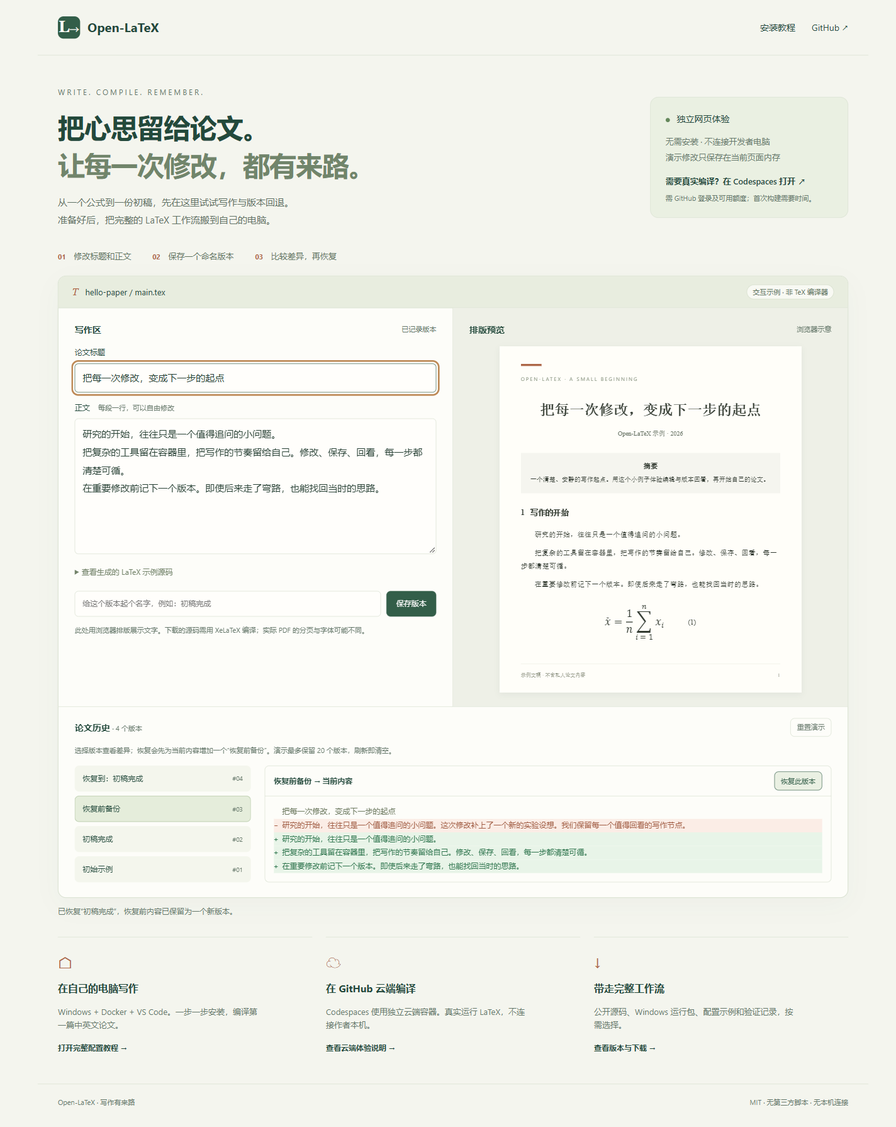
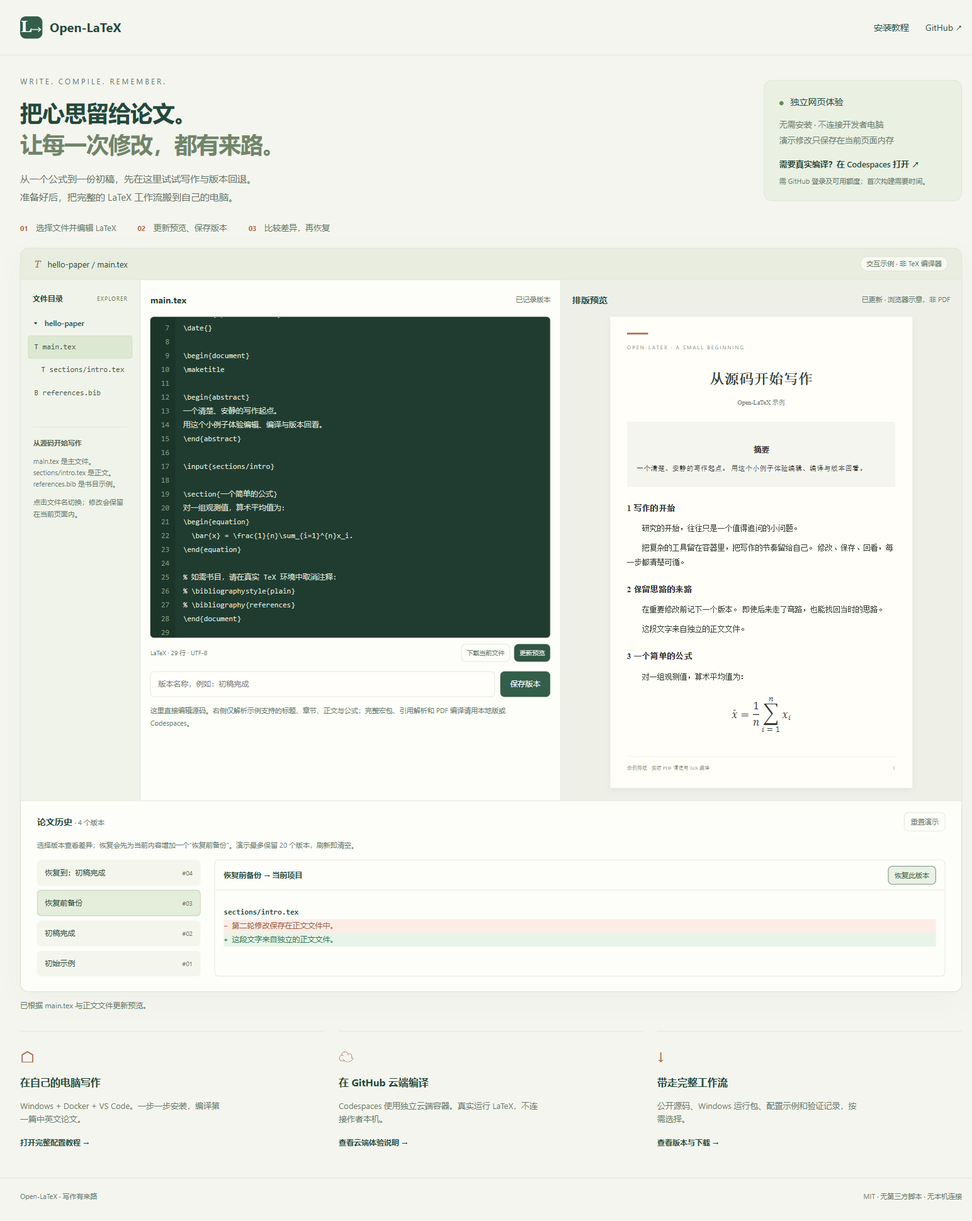
Add three-pane LaTeX demo and verified setup documentation

diff --git a/code/web/app.js b/code/web/app.js
@@ -1,81 +1,142 @@
 'use strict';
 (() => {
   const $ = id => document.getElementById(id);
-  const title = $('paper-title'), body = $('paper-body');
-  const initial = {title: title.value, body: body.value};
-  let nextId = 1, versions = [], selectedId;
-  const notice = message => { $('notification').textContent = message; };
-  const content = () => ({title: title.value, body: body.value});
-  const same = (a, b) => a.title === b.title && a.body === b.body;
-  const escapeTex = value => value.replace(/[\\{}%$&#_^~]/g, c => ({'\\':'\\textbackslash{}','{':'\\{','}':'\\}','%':'\\%','$':'\\$','&':'\\&','#':'\\#','_':'\\_','^':'\\textasciicircum{}','~':'\\textasciitilde{}'}[c]));
-  function source() {
-    return '\\documentclass[UTF8]{ctexart}\n\\usepackage{amsmath}\n\\title{' + escapeTex(title.value || '未命名文稿') + '}\n\\author{Open-LaTeX Demo}\n\\date{}\n\\begin{document}\n\\maketitle\n\\section{写作的开始}\n' + body.value.split('\n').map(escapeTex).join('\n\n') + '\n\\[ \\bar{x}=\\frac{1}{n}\\sum_{i=1}^{n}x_i \\]\n\\end{document}\n';
+  const original = {
+    'main.tex': String.raw`% !TeX program = xelatex
+\documentclass[UTF8,a4paper,11pt]{ctexart}
+\usepackage[margin=25mm]{geometry}
+\usepackage{amsmath}
+\title{从第一行开始}
+\author{Open-LaTeX 示例}
+\date{}
+
+\begin{document}
+\maketitle
+
+\begin{abstract}
+一个清楚、安静的写作起点。
+用这个小例子体验编辑、编译与版本回看。
+\end{abstract}
+
+\input{sections/intro}
+
+\section{一个简单的公式}
+对一组观测值，算术平均值为：
+\begin{equation}
+  \bar{x} = \frac{1}{n}\sum_{i=1}^{n}x_i.
+\end{equation}
+
+% 如需书目，请在真实 TeX 环境中取消注释：
+% \bibliographystyle{plain}
+% \bibliography{references}
+\end{document}
+`,
+    'sections/intro.tex': String.raw`\section{写作的开始}
+研究的开始，往往只是一个值得追问的小问题。
+
+把复杂的工具留在容器里，把写作的节奏留给自己。
+修改、保存、回看，每一步都清楚可循。
+
+\section{保留思路的来路}
+在重要修改前记下一个版本。
+即使后来走了弯路，也能找回当时的思路。
+`,
+    'references.bib': String.raw`% 原创演示书目，仅用于展示 .bib 文件结构。
+% 不是实际发表的论文，请勿用于正式引用。
+@misc{openlatexDemo,
+  author = {{Open-LaTeX contributors}},
+  title  = {Open-LaTeX 示例文稿},
+  year   = {2026},
+  note   = {Fictional example; do not cite}
+}
+`
+  };
+  let files = {...original}, active = 'main.tex', versions = [], nextId = 1, selectedId;
+  const editor = $('source-editor');
+  const notice = message => {$('notification').textContent = message;};
+  const equal = (a,b) => Object.keys(original).every(name => a[name] === b[name]);
+  const commitEdit = () => {files[active] = editor.value;};
+  const stripComments = text => text.split('\n').map(line => line.replace(/(?<!\\)%.*/, '')).join('\n');
+  const plain = text => text.replace(/\\(?:textbf|textit|emph|texttt)\{([^{}]*)\}/g,'$1').replace(/\\([%&#_$])/g,'$1').replace(/\$([^$]*)\$/g,'$1').replace(/\\(?:LaTeX|TeX)\b/g,'LaTeX');
+  function braces(text, command) {
+    const at=text.indexOf('\\'+command+'{'); if(at<0)return '';
+    const start=at+command.length+2;let depth=1;
+    for(let i=start;i<text.length;i++){if(text[i]==='{'&&text[i-1]!=='\\')depth++;if(text[i]==='}'&&text[i-1]!=='\\')depth--;if(!depth)return text.slice(start,i);}
+    return '';
   }
-  function addVersion(label, snapshot = content()) {
-    const version = {id: nextId++, label, ...snapshot};
-    versions.unshift(version);
-    versions = versions.slice(0, 20);
-    return version;
-  }
-  function showDiff() {
-    const selected = versions.find(v => v.id === selectedId);
-    if (!selected) return;
-    $('selected-title').textContent = selected.label + ' → 当前内容';
-    $('restore-version').disabled = same(selected, content());
-    const target = $('diff-view'); target.replaceChildren();
-    if (same(selected, content())) {target.textContent = '当前内容与此版本一致。修改正文后，这里会显示差异。'; return;}
-    const oldLines = [selected.title, ...selected.body.split('\n')];
-    const newLines = [title.value, ...body.value.split('\n')];
-    // A line-by-position comparison, deliberately labelled as an illustrative diff.
-    for (let i = 0; i < Math.max(oldLines.length, newLines.length); i++) {
-      const before = oldLines[i], after = newLines[i];
-      const line = (text, type) => {const el = document.createElement('span'); el.className = 'diff-line ' + type; el.textContent = text; target.append(el);};
-      if (before === after) {line('  ' + (before || ''), ''); continue;}
-      if (before !== undefined) line('− ' + before, 'diff-removed');
-      if (after !== undefined) line('+ ' + after, 'diff-added');
-    }
-  }
-  function renderHistory() {
-    $('history-count').textContent = `· ${versions.length} 个版本`;
-    const list = $('history-list'); list.replaceChildren();
-    versions.forEach(v => {
-      const button = document.createElement('button'); button.className = 'history-entry' + (v.id === selectedId ? ' active' : '');
-      button.setAttribute('aria-pressed', String(v.id === selectedId));
-      const label = document.createElement('span'); label.textContent = v.label;
-      const number = document.createElement('small'); number.textContent = '#' + String(v.id).padStart(2, '0');
-      button.append(label, number); button.addEventListener('click', () => {selectedId = v.id; renderHistory();}); list.append(button);
+  function renderTree() {
+    const list=$('file-list');list.replaceChildren();
+    Object.keys(files).forEach(name => {
+      const button=document.createElement('button');button.className='file-entry'+(name===active?' active':'')+(name.includes('/')?' nested':'');
+      button.textContent=(name.endsWith('.bib')?'B  ':'T  ')+name;button.setAttribute('aria-pressed',String(name===active));
+      button.addEventListener('click',()=>{commitEdit();active=name;editor.value=files[name];$('active-filename').textContent=name;renderTree();lineNumbers();editor.scrollTop=0;editor.scrollLeft=0;});list.append(button);
     });
-    showDiff();
   }
-  function update() {
-    $('preview-title').textContent = title.value || '未命名文稿';
-    const preview = $('preview-body'); preview.replaceChildren();
-    body.value.split('\n').filter(s => s.trim()).forEach(text => {const p = document.createElement('p'); p.textContent = text; preview.append(p);});
-    $('tex-source').textContent = source();
-    $('edit-state').textContent = versions[0] && same(versions[0], content()) ? '已记录版本' : '有未记录的修改';
-    showDiff();
+  function lineNumbers() {
+    $('line-numbers').textContent=editor.value.split('\n').map((_,i)=>i+1).join('\n');
+    $('line-numbers').scrollTop=editor.scrollTop;
+    $('source-position').textContent=(active.endsWith('.bib')?'BibTeX':'LaTeX')+' · '+editor.value.split('\n').length+' 行 · UTF-8';
+    $('edit-state').textContent=versions[0]&&equal(versions[0].files,files)?'已记录版本':'有未记录修改';
   }
-  title.addEventListener('input', update); body.addEventListener('input', update);
-  $('save-version').addEventListener('click', () => {
-    const label = $('version-label').value.trim() || '写作版本 ' + nextId;
-    const saved = addVersion(label); selectedId = saved.id; $('version-label').value = ''; renderHistory(); update(); notice(`已保存“${label}”。继续修改后，选择旧版本就能比较差异。`);
-  });
-  $('restore-version').addEventListener('click', () => {
-    const target = versions.find(v => v.id === selectedId);
-    if (!target || same(target, content())) return;
-    addVersion('恢复前备份'); title.value = target.title; body.value = target.body;
-    selectedId = addVersion('恢复到：' + target.label).id;
-    renderHistory(); update(); notice('已恢复“' + target.label + '”，恢复前内容已保留为一个新版本。');
-  });
-  $('reset-demo').addEventListener('click', () => {
-    if (!window.confirm('重置会清空当前页面内的演示修改和版本。继续吗？')) return;
-    title.value = initial.title; body.value = initial.body; versions = []; nextId = 1;
-    selectedId = addVersion('初始示例').id; $('version-label').value = ''; renderHistory(); update(); notice('已重置为初始示例。');
-  });
-  $('download-tex').addEventListener('click', () => {
-    const url = URL.createObjectURL(new Blob([source()], {type:'text/plain;charset=utf-8'}));
-    const link = document.createElement('a'); link.href = url; link.download = 'main.tex'; link.click();
-    setTimeout(() => URL.revokeObjectURL(url), 1000); notice('已下载示例源码。请用 XeLaTeX 编译；网页排版仅作示意。');
-  });
-  selectedId = addVersion('初始示例').id; renderHistory(); update();
+  function preview() {
+    commitEdit();const warnings=[];let tex=stripComments(files['main.tex']);
+    let seen=new Set(['main.tex']);
+    function expand(text, depth=0) {
+      if(depth>5){warnings.push('嵌套层数超过演示范围。');return '';}
+      return text.replace(/\\input\{([^{}]+)\}/g,(_,name)=>{const path=name.endsWith('.tex')?name:name+'.tex';if(!Object.hasOwn(files,path)){warnings.push('找不到文件：'+path);return '';}
+        if(seen.has(path)){warnings.push('检测到循环引用：'+path);return '';}
+        seen.add(path);const value=expand(stripComments(files[path]),depth+1);seen.delete(path);return value;});
+    }
+    tex=expand(tex);
+    if(!tex.includes('\\begin{document}')||!tex.includes('\\end{document}'))warnings.push('缺少 document 起止标记；请检查主文件。');
+    $('preview-title').textContent=plain(braces(tex,'title'))||'未命名文稿';
+    $('preview-author').textContent=plain(braces(tex,'author'))||'Open-LaTeX 示例';
+    let content=tex.split('\\begin{document}')[1]?.split('\\end{document}')[0]||'';
+    const target=$('preview-body');target.replaceChildren();let section=0,paragraph=[];
+    const flush=()=>{if(paragraph.length){const p=document.createElement('p');p.textContent=plain(paragraph.join(' '));target.append(p);paragraph=[];}};
+    const lines=content.split('\n');
+    for(let i=0;i<lines.length;i++){
+      const line=lines[i].trim();
+      if(!line){flush();continue;}
+      if(line==='\\maketitle')continue;
+      if(line.startsWith('\\section{')){flush();const h=document.createElement('h4');h.textContent=(++section)+'  '+plain(braces(line,'section'));target.append(h);continue;}
+      if(line==='\\begin{abstract}'){
+        flush();let text=[];while(++i<lines.length&&!lines[i].includes('\\end{abstract}'))text.push(lines[i]);
+        const box=document.createElement('div');box.className='paper-abstract';const h=document.createElement('h4');h.textContent='摘要';const p=document.createElement('p');p.textContent=plain(text.join(' '));box.append(h,p);target.append(box);continue;
+      }
+      if(line==='\\begin{equation}'){
+        flush();let math=[];while(++i<lines.length&&!lines[i].includes('\\end{equation}'))math.push(lines[i]);
+        const formula=math.join(' ').trim();const block=document.createElement('div');block.className='equation';
+        if(formula.replace(/\s/g,'')===String.raw`\bar{x}=\frac{1}{n}\sum_{i=1}^{n}x_i.`){
+          // Fixed trusted MathML for the included example; never interpolate editor text into HTML.
+          block.innerHTML='<math xmlns="http://www.w3.org/1998/Math/MathML" display="block"><mrow><mover><mi>x</mi><mo>¯</mo></mover><mo>=</mo><mfrac><mn>1</mn><mi>n</mi></mfrac><munderover><mo>∑</mo><mrow><mi>i</mi><mo>=</mo><mn>1</mn></mrow><mi>n</mi></munderover><msub><mi>x</mi><mi>i</mi></msub></mrow></math>';
+        }else{block.className='formula-source';block.textContent=formula;warnings.push('自定义公式以源码显示；完整排版请使用 TeX 编译。');}target.append(block);continue;
+      }
+      if(/\\(?:cite\w*|bibliography|bibliographystyle|includegraphics|begin)\b/.test(line))warnings.push('包含示例预览不支持的引用、图片或环境，请在 TeX 中编译。');
+      if(/\\(?!textbf\b|textit\b|emph\b|texttt\b|LaTeX\b|TeX\b|[%&#_$])[a-zA-Z]+/.test(line))warnings.push('部分 LaTeX 命令在演示中按源码显示。');
+      paragraph.push(line);
+    }
+    flush();$('preview-warning').textContent=[...new Set(warnings)].join(' ');$('preview-state').textContent='已更新 · 浏览器示意，非 PDF';notice(warnings.length?'预览已更新；请查看预览区提示。':'已根据 main.tex 与正文文件更新预览。');
+  }
+  function addVersion(label){const v={id:nextId++,label,files:{...files}};versions.unshift(v);versions=versions.slice(0,20);return v;}
+  function diff(){
+    const v=versions.find(x=>x.id===selectedId);if(!v)return;
+    $('selected-title').textContent=v.label+' → 当前项目';$('restore-version').disabled=equal(v.files,files);
+    const out=$('diff-view');out.replaceChildren();if(equal(v.files,files)){out.textContent='当前项目与此版本一致。编辑源码后可在这里比较差异。';return;}
+    const append=(text,style)=>{const el=document.createElement('span');el.className='diff-line '+style;el.textContent=text;out.append(el);};
+    Object.keys(files).forEach(name=>{if(v.files[name]===files[name])return;append(name,'diff-file');const old=v.files[name].split('\n'),now=files[name].split('\n');for(let i=0;i<Math.max(old.length,now.length);i++){if(old[i]===now[i])continue;if(old[i]!==undefined)append('− '+old[i],'diff-removed');if(now[i]!==undefined)append('+ '+now[i],'diff-added');}});
+  }
+  function history(){
+    $('history-count').textContent='· '+versions.length+' 个版本';const list=$('history-list');list.replaceChildren();
+    versions.forEach(v=>{const b=document.createElement('button');b.className='history-entry'+(v.id===selectedId?' active':'');b.setAttribute('aria-pressed',String(v.id===selectedId));const label=document.createElement('span');label.textContent=v.label;const n=document.createElement('small');n.textContent='#'+String(v.id).padStart(2,'0');b.append(label,n);b.addEventListener('click',()=>{selectedId=v.id;history();});list.append(b);});diff();lineNumbers();
+  }
+  editor.addEventListener('input',()=>{commitEdit();lineNumbers();diff();$('preview-state').textContent='源码已修改 · 点击更新预览';});
+  editor.addEventListener('scroll',()=>{$('line-numbers').scrollTop=editor.scrollTop;});
+  editor.addEventListener('keydown',event=>{if(event.key==='Tab'){event.preventDefault();editor.setRangeText('  ',editor.selectionStart,editor.selectionEnd,'end');editor.dispatchEvent(new Event('input'));}});
+  $('update-preview').addEventListener('click',preview);
+  $('save-version').addEventListener('click',()=>{commitEdit();const label=$('version-label').value.trim()||'写作版本 '+nextId;selectedId=addVersion(label).id;$('version-label').value='';history();notice('已保存项目版本“'+label+'”，包含全部三个文件。');});
+  $('restore-version').addEventListener('click',()=>{commitEdit();const target=versions.find(v=>v.id===selectedId);if(!target||equal(target.files,files))return;addVersion('恢复前备份');files={...target.files};selectedId=addVersion('恢复到：'+target.label).id;editor.value=files[active];history();preview();notice('已恢复全部示例文件，并保留“恢复前备份”。');});
+  $('reset-demo').addEventListener('click',()=>{if(!confirm('重置会清空当前页面的源码修改和版本。继续吗？'))return;files={...original};active='main.tex';versions=[];nextId=1;selectedId=addVersion('初始示例').id;editor.value=files[active];$('active-filename').textContent=active;renderTree();history();preview();notice('已重置演示项目。');});
+  $('download-tex').addEventListener('click',()=>{commitEdit();const url=URL.createObjectURL(new Blob([files[active]],{type:'text/plain;charset=utf-8'}));const link=document.createElement('a');link.href=url;link.download=active.split('/').pop();link.click();setTimeout(()=>URL.revokeObjectURL(url),1000);notice('已下载 '+active+'。完整编译需下载全部文件并保持 sections/intro.tex 目录结构。');});
+  editor.value=files[active];selectedId=addVersion('初始示例').id;renderTree();history();preview();
 })();

diff --git a/code/web/style.css b/code/web/style.css
@@ -1,1 +1,3 @@
 :root{color-scheme:light;--bg:#f4f5ee;--ink:#23493b;--muted:#65776a;--line:#d7dfcf;--paper:#fffef9;--green:#335e49;--accent:#ad6748}*{box-sizing:border-box}body{margin:0;background:var(--bg);color:var(--ink);font:15px/1.65 "Segoe UI","Microsoft YaHei",sans-serif}a{color:inherit;text-decoration:none}a:hover{text-decoration:underline}button,input,textarea{font:inherit}button{cursor:pointer;border:1px solid var(--green);background:var(--green);color:white;border-radius:7px;padding:9px 15px;white-space:nowrap}button:hover{filter:brightness(.93)}button:disabled{cursor:not-allowed;opacity:.45}button:focus-visible,a:focus-visible,input:focus-visible,textarea:focus-visible,summary:focus-visible{outline:3px solid #bd8956;outline-offset:3px}input,textarea{width:100%;border:1px solid var(--line);border-radius:6px;background:#fffefb;color:#263f33;padding:10px 12px}textarea{resize:vertical;min-height:215px;line-height:1.9}input:focus,textarea:focus{border-color:var(--green)}.topbar,main,footer{max-width:1320px;margin:auto}.topbar{display:flex;align-items:center;justify-content:space-between;padding:26px 32px;border-bottom:1px solid var(--line)}.brand{font-size:20px;font-weight:650;display:flex;align-items:center;gap:12px}.brand-mark{display:inline-flex;width:35px;height:35px;align-items:center;justify-content:center;background:var(--green);color:var(--paper);border-radius:9px;font-family:Georgia,serif;font-size:25px}.brand-mark span{font:16px sans-serif;align-self:flex-end;margin-bottom:4px}nav{display:flex;gap:26px;font-size:14px}main{padding:0 32px}.intro{display:flex;justify-content:space-between;align-items:center;gap:36px;padding:49px 0 32px}.eyebrow{font-size:12px;letter-spacing:3px;color:var(--muted);margin:0 0 14px}h1{font-size:clamp(28px,3vw,43px);font-weight:650;line-height:1.4;letter-spacing:-1px;margin:0 0 16px}h1 span{color:#71856b}.lead{color:#5f7164;margin:0;font-size:15px;line-height:1.9}.intro-card{min-width:315px;max-width:355px;border:1px solid var(--line);background:#eaf0e2;padding:22px 24px;border-radius:13px;font-size:14px}.intro-card>p{color:var(--muted);font-size:13px;line-height:1.9}.intro-card>a{font-size:13px;font-weight:600}.intro-card small{display:block;font-size:11px;color:var(--muted);margin-top:7px}.status-dot{display:inline-block;background:#65885c;width:7px;height:7px;border-radius:50%;margin-right:7px}.walkthrough{display:flex;gap:34px;margin:0 0 21px;color:#61735f;font-size:13px}.walkthrough b{font-size:11px;color:var(--accent);margin-right:9px}.workbench{border:1px solid #c9d5bf;border-radius:13px;background:#fdfdf9;overflow:hidden;box-shadow:0 12px 40px #23493b08}.bench-top{display:flex;justify-content:space-between;align-items:center;padding:13px 22px;background:#e8eddf;border-bottom:1px solid var(--line);font-size:13px}.file-icon{font:italic 15px Georgia,serif;display:inline-block;margin-right:8px;color:var(--accent)}.demo-badge{font-size:11px;background:#f8f9f3;color:#5d735d;border:1px solid #d2dcc8;padding:2px 9px;border-radius:15px}.workspace{display:grid;grid-template-columns:1fr 1fr}.editor-pane{padding:22px 26px;border-right:1px solid var(--line)}.pane-heading{display:flex;justify-content:space-between;align-items:center;margin-bottom:16px;gap:8px}.pane-heading h2{font-size:14px;margin:0;font-weight:650}.pane-heading>span,.pane-heading h2 span{font-size:11px;color:var(--muted);font-weight:400}.editor-pane>label{display:block;font-size:12px;margin:15px 0 7px}.editor-pane>label span{font-size:11px;color:var(--muted);margin-left:10px}.source-details{margin-top:12px;font-size:12px}.source-details summary{cursor:pointer;color:#728269}.source-details pre{overflow:auto;max-height:240px;background:#f0f3e9;padding:12px;font-size:11px}.save-row{display:flex;gap:9px;margin-top:20px}.save-row input{min-width:0;font-size:12px}.save-row button{font-size:12px}.micro{font-size:11px;color:var(--muted);line-height:1.8;margin:12px 0 0}.preview-pane{background:#eef0e7;padding:22px 26px}.paper{max-width:480px;min-height:480px;background:var(--paper);margin:auto;padding:28px 34px 20px;box-shadow:0 3px 10px #233c3010;color:#333b32;font-family:"Times New Roman","SimSun",serif}.paper-rule{width:33px;height:3px;background:var(--accent);margin-bottom:15px}.paper-kicker{font:8px "Segoe UI",sans-serif;letter-spacing:2px;color:#84907c}.paper h3{text-align:center;font-size:23px;margin:26px 0 10px;overflow-wrap:anywhere}.paper-author{text-align:center;font-size:10px;color:#6a7568}.paper-abstract{background:#f5f5ef;padding:12px 15px;margin:22px 0 21px;font-size:10px}.paper-abstract h4{margin:0 0 4px;text-align:center;font-size:11px}.paper-abstract p{margin:0;line-height:1.8}.paper>h4{font-size:12px;margin:15px 0}.paper #preview-body{font-size:11px;line-height:1.9;overflow-wrap:anywhere}.paper #preview-body p{margin:8px 0;text-indent:2em}.equation{display:flex;align-items:center;justify-content:center;gap:38px;padding:14px 0}.equation math{font-size:18px}.equation>span{font-size:11px}.paper-footer{display:flex;justify-content:space-between;color:#929787;font-size:8px;border-top:1px solid #eceee5;margin-top:24px;padding-top:12px}.history-pane{border-top:1px solid var(--line);padding:18px 26px 24px}.history-pane .pane-heading{margin-bottom:3px}.subtle{font-size:11px;color:var(--muted);background:transparent;border-color:var(--line);padding:5px 10px}.history-layout{display:grid;grid-template-columns:280px 1fr;gap:22px;margin-top:14px}#history-list{display:flex;flex-direction:column;gap:7px;max-height:220px;overflow:auto}.history-entry{display:flex;justify-content:space-between;align-items:center;text-align:left;width:100%;color:var(--ink);background:#f4f6ed;border:1px solid transparent;padding:10px 12px;font-size:12px;white-space:normal;gap:8px}.history-entry.active{background:#e5eddb;border-color:#a7be97}.history-entry small{font-size:10px;color:var(--muted);white-space:nowrap}.comparison{border:1px solid var(--line);border-radius:7px;min-width:0}.compare-title{display:flex;justify-content:space-between;align-items:center;gap:10px;padding:9px 14px;border-bottom:1px solid var(--line);font-size:12px}.secondary{color:var(--green);background:#eaf0e3;padding:5px 10px;font-size:11px}.comparison pre{margin:0;padding:14px;font:12px/1.8 Consolas,"Microsoft YaHei",monospace;white-space:pre-wrap;overflow-wrap:anywhere;max-height:160px;overflow:auto;color:#6c795f}.diff-added{color:#2f754e;background:#e8f4e8}.diff-removed{color:#a05b42;background:#fbede6}.diff-line{display:block}.routes{display:grid;grid-template-columns:repeat(3,1fr);gap:22px;padding:30px 0 45px}.routes>a{border-top:1px solid var(--line);padding-top:20px}.routes>a:hover{text-decoration:none}.routes>a>span{font-size:24px;color:var(--accent)}.routes h2{font-size:16px;margin:8px 0}.routes p{color:var(--muted);font-size:13px;max-width:320px}.routes strong{font-size:12px}.routes a:hover strong{text-decoration:underline}#notification{font-size:12px;color:var(--muted);min-height:20px;margin:12px 0 0}footer{display:flex;justify-content:space-between;border-top:1px solid var(--line);padding:20px 32px 30px;font-size:11px;color:var(--muted)}.sr-only{position:absolute;width:1px;height:1px;padding:0;margin:-1px;overflow:hidden;clip:rect(0,0,0,0);white-space:nowrap;border:0}@media(max-width:850px){.intro{flex-direction:column;align-items:flex-start;gap:22px}.intro-card{min-width:0;max-width:none;width:100%}.workspace{grid-template-columns:1fr}.editor-pane{border-right:0;border-bottom:1px solid var(--line)}.history-layout{grid-template-columns:1fr}.routes{grid-template-columns:1fr}.walkthrough{gap:12px;flex-wrap:wrap}.topbar,main,footer{padding-left:18px;padding-right:18px}.bench-top{gap:12px;flex-wrap:wrap}.paper{min-height:420px}.intro{padding-top:28px}footer{gap:15px;flex-wrap:wrap}}@media(prefers-reduced-motion:no-preference){button,a,input{transition:background .15s,border-color .15s}}
+/* Three-column writing layout: project tree, source, preview. */
+.topbar,main,footer{max-width:1560px}.intro{padding-top:32px;padding-bottom:24px}h1{font-size:36px}.workspace{grid-template-columns:190px minmax(340px,1.05fr) minmax(350px,1fr)}.file-pane{background:#f0f3e9;border-right:1px solid var(--line);padding:20px 12px}.file-pane .pane-heading{padding:0 7px}.file-pane .pane-heading>span{font-size:9px;letter-spacing:1px}.project-folder{font-size:12px;font-weight:600;margin:20px 6px 9px}.file-entry{width:100%;display:flex;gap:8px;text-align:left;font:12px/1.6 Consolas,"Microsoft YaHei",monospace;color:#425947;border:1px solid transparent;background:transparent;padding:8px 9px;border-radius:4px;white-space:normal;overflow-wrap:anywhere}.file-entry.active{background:#dde8d3;border-color:#c2d2b4}.file-entry .file-symbol{color:#ad6748}.file-entry.nested{padding-left:20px}.folder-label{font-size:11px;color:#788671;padding:10px 9px 2px}.file-help{font-size:11px;color:var(--muted);margin:35px 8px 0;border-top:1px solid var(--line);padding-top:16px}.file-help strong{color:#52674e}.editor-pane{padding:20px 16px;min-width:0}.code-area{height:510px;display:flex;background:#203c31;border:1px solid #294b3b;border-radius:6px;overflow:hidden}.code-area pre{margin:0;padding:15px 9px 15px 12px;text-align:right;font:12px/22px Consolas,monospace;color:#809c89;user-select:none;overflow:hidden;min-width:39px;background:#1c352b}.code-area textarea{border:0;border-radius:0;background:transparent;color:#e2eadc;white-space:pre;resize:none;min-height:0;height:100%;font:12px/22px Consolas,"Microsoft YaHei",monospace;padding:15px 12px;tab-size:2;outline-offset:-3px}.editor-toolbar{display:flex;gap:7px;align-items:center;margin:10px 0}.editor-toolbar>span{font-size:10px;color:var(--muted);margin-right:auto}.editor-toolbar button{font-size:10px;padding:5px 8px}.save-row{margin-top:15px}.preview-pane{padding:20px 18px;min-width:0}.paper{padding:25px 27px;min-height:570px}.paper #preview-body h4{font-size:13px;margin:20px 0 8px}.paper #preview-body p{font-size:12px}.paper-author{overflow-wrap:anywhere}.preview-warning{font-size:10px;line-height:1.7;color:#976044;margin:0 0 10px}.preview-warning:empty{display:none}.paper .formula-source{font:12px/1.8 Consolas,monospace;white-space:pre-wrap;text-align:center;overflow-wrap:anywhere;background:#f2f4ec;padding:9px}.history-layout{grid-template-columns:260px 1fr}.diff-file{display:block;color:var(--ink);font-weight:bold;padding-top:10px}.paper .paper-abstract{font-size:11px}.paper .paper-abstract p{text-indent:0!important;font-size:11px!important}.intro-card{max-width:370px}.file-pane h2{font-size:12px}@media(max-width:1120px) and (min-width:851px){.workspace{grid-template-columns:155px minmax(0,1fr) minmax(0,1fr)}.file-pane{padding:16px 7px}.editor-pane,.preview-pane{padding:16px 12px}.paper{padding:22px 18px}.editor-toolbar>span{display:none}}@media(max-width:850px){.workspace{grid-template-columns:1fr}.file-pane{border-right:0;border-bottom:1px solid var(--line);padding:14px 16px}.file-pane .pane-heading,.project-folder,.file-help,.folder-label{display:none}#file-list{display:flex;gap:5px;flex-wrap:wrap}.file-entry,.file-entry.nested{width:auto;padding:7px 10px}.editor-pane{border-right:0}.code-area{height:430px}.preview-pane{padding:18px}.history-layout{grid-template-columns:1fr}.paper{max-width:540px;min-height:480px}h1{font-size:28px}.save-row{flex-wrap:wrap}.save-row input{flex:1;min-width:140px}.history-pane{padding:18px 16px}.paper #preview-body p{font-size:12px}}

diff --git a/code/web/index.html b/code/web/index.html
@@ -13,18 +13,17 @@
   <header class="topbar"><a class="brand" href="./"><span class="brand-mark">L<span>→</span></span> Open-LaTeX</a><nav aria-label="主导航"><a href="https://github.com/Maverickquliushang/Open-LaTeX/blob/main/docs/GETTING_STARTED.md">安装教程</a><a href="https://github.com/Maverickquliushang/Open-LaTeX">GitHub ↗</a></nav></header>
   <main>
     <section class="intro"><div><p class="eyebrow">WRITE. COMPILE. REMEMBER.</p><h1>把心思留给论文。<br><span>让每一次修改，都有来路。</span></h1><p class="lead">从一个公式到一份初稿，先在这里试试写作与版本回退。<br>准备好后，把完整的 LaTeX 工作流搬到自己的电脑。</p></div><aside class="intro-card"><span class="status-dot"></span> 独立网页体验<p>无需安装 · 不连接开发者电脑<br>演示修改只保存在当前页面内存</p><a href="https://github.com/codespaces/new?hide_repo_select=true&amp;repo=Maverickquliushang%2FOpen-LaTeX">需要真实编译？在 Codespaces 打开 ↗</a><small>需 GitHub 登录及可用额度；首次构建需要时间。</small></aside></section>
-    <div class="walkthrough"><span><b>01</b> 修改标题和正文</span><span><b>02</b> 保存一个命名版本</span><span><b>03</b> 比较差异，再恢复</span></div>
+    <div class="walkthrough"><span><b>01</b> 选择文件并编辑 LaTeX</span><span><b>02</b> 更新预览、保存版本</span><span><b>03</b> 比较差异，再恢复</span></div>
     <section class="workbench" aria-label="论文写作交互演示">
       <div class="bench-top"><span><i class="file-icon">T</i> hello-paper / main.tex</span><span class="demo-badge">交互示例 · 非 TeX 编译器</span></div>
       <div class="workspace">
-        <section class="editor-pane"><div class="pane-heading"><h2>写作区</h2><span id="edit-state">示例已就绪</span></div><label for="paper-title">论文标题</label><input id="paper-title" maxlength="120" value="从第一行开始"><label for="paper-body">正文 <span>每段一行，可以自由修改</span></label><textarea id="paper-body" maxlength="12000" spellcheck="false">研究的开始，往往只是一个值得追问的小问题。
-把复杂的工具留在容器里，把写作的节奏留给自己。修改、保存、回看，每一步都清楚可循。
-在重要修改前记下一个版本。即使后来走了弯路，也能找回当时的思路。</textarea><details class="source-details"><summary>查看生成的 LaTeX 示例源码</summary><pre id="tex-source" tabindex="0"></pre><button id="download-tex" class="subtle">下载 main.tex</button></details><div class="save-row"><label class="sr-only" for="version-label">版本名称</label><input id="version-label" maxlength="60" placeholder="给这个版本起个名字，例如：初稿完成"><button id="save-version">保存版本</button></div><p class="micro">此处用浏览器排版展示文字。下载的源码需用 XeLaTeX 编译；实际 PDF 的分页与字体可能不同。</p></section>
-        <section class="preview-pane"><div class="pane-heading"><h2>排版预览</h2><span>浏览器示意</span></div><article class="paper" aria-label="论文排版示意"><div class="paper-rule"></div><p class="paper-kicker">OPEN-LATEX · A SMALL BEGINNING</p><h3 id="preview-title">从第一行开始</h3><p class="paper-author">Open-LaTeX 示例 · 2026</p><div class="paper-abstract"><h4>摘要</h4><p>一个清楚、安静的写作起点。用这个小例子体验编辑与版本回看，再开始自己的论文。</p></div><h4>1 &nbsp; 写作的开始</h4><div id="preview-body"></div><div class="equation"><math xmlns="http://www.w3.org/1998/Math/MathML" display="block"><mrow><mover><mi>x</mi><mo>¯</mo></mover><mo>=</mo><mfrac><mn>1</mn><mi>n</mi></mfrac><munderover><mo>∑</mo><mrow><mi>i</mi><mo>=</mo><mn>1</mn></mrow><mi>n</mi></munderover><msub><mi>x</mi><mi>i</mi></msub></mrow></math><span>(1)</span></div><div class="paper-footer">示例文稿 · 不含私人论文内容<span>1</span></div></article></section>
+        <aside class="file-pane" aria-label="示例文件目录"><div class="pane-heading"><h2>文件目录</h2><span>EXPLORER</span></div><p class="project-folder">▾ &nbsp; hello-paper</p><div id="file-list"></div><div class="file-help"><strong>从源码开始写作</strong><p>main.tex 是主文件。<br>sections/intro.tex 是正文。<br>references.bib 是书目示例。</p><p>点击文件名切换；修改会保留在当前页面内。</p></div></aside>
+        <section class="editor-pane"><div class="pane-heading"><h2 id="active-filename">main.tex</h2><span id="edit-state">示例已就绪</span></div><label class="sr-only" for="source-editor">LaTeX 源码编辑器</label><div class="code-area"><pre id="line-numbers" aria-hidden="true"></pre><textarea id="source-editor" maxlength="24000" spellcheck="false" autocapitalize="off" autocomplete="off" wrap="off"></textarea></div><div class="editor-toolbar"><span id="source-position">LaTeX · UTF-8</span><button id="download-tex" class="subtle">下载当前文件</button><button id="update-preview">更新预览</button></div><div class="save-row"><label class="sr-only" for="version-label">版本名称</label><input id="version-label" maxlength="60" placeholder="版本名称，例如：初稿完成"><button id="save-version">保存版本</button></div><p class="micro">这里直接编辑源码。右侧仅解析示例支持的标题、章节、正文与公式；完整宏包、引用解析和 PDF 编译请用本地版或 Codespaces。</p></section>
+        <section class="preview-pane"><div class="pane-heading"><h2>排版预览</h2><span id="preview-state">浏览器示意 · 非 PDF</span></div><p id="preview-warning" class="preview-warning" role="status"></p><article class="paper" aria-label="根据 LaTeX 示例源码生成的排版示意"><div class="paper-rule"></div><p class="paper-kicker">OPEN-LATEX · A SMALL BEGINNING</p><h3 id="preview-title"></h3><p class="paper-author" id="preview-author"></p><div id="preview-body"></div><div class="paper-footer">示例排版 · 实际 PDF 请使用 TeX 编译<span>1</span></div></article></section>
       </div>
       <section class="history-pane"><div class="pane-heading"><h2>论文历史 <span id="history-count"></span></h2><button id="reset-demo" class="subtle">重置演示</button></div><p class="micro">选择版本查看差异；恢复会先为当前内容增加一个“恢复前备份”。演示最多保留 20 个版本，刷新即清空。</p><div class="history-layout"><div id="history-list" aria-label="版本列表"></div><div class="comparison"><div class="compare-title"><strong id="selected-title">初始示例</strong><button id="restore-version" class="secondary">恢复此版本</button></div><pre id="diff-view" tabindex="0" aria-label="与当前内容的差异"></pre></div></div></section>
     </section>
-    <p id="notification" role="status" aria-live="polite">试试修改标题，然后保存一个版本。</p>
+    <p id="notification" role="status" aria-live="polite">从左侧选择文件，在中间修改源码，再点击“更新预览”。</p>
     <section class="routes"><a href="https://github.com/Maverickquliushang/Open-LaTeX/blob/main/docs/GETTING_STARTED.md"><span>⌂</span><h2>在自己的电脑写作</h2><p>Windows + Docker + VS Code。一步一步安装，编译第一篇中英文论文。</p><strong>打开完整配置教程 →</strong></a><a href="https://github.com/Maverickquliushang/Open-LaTeX/blob/main/docs/ONLINE.md"><span>☁</span><h2>在 GitHub 云端编译</h2><p>Codespaces 使用独立云端容器。真实运行 LaTeX，不连接作者本机。</p><strong>查看云端体验说明 →</strong></a><a href="https://github.com/Maverickquliushang/Open-LaTeX/releases"><span>↓</span><h2>带走完整工作流</h2><p>公开源码、Windows 运行包、配置示例和验证记录，按需选择。</p><strong>查看版本与下载 →</strong></a></section>
   </main>
   <footer><span>Open-LaTeX · 写作有来路</span><span>MIT · 无第三方脚本 · 无本机连接</span></footer>

diff --git a/docs/VALIDATION.md b/docs/VALIDATION.md
@@ -2,10 +2,11 @@
 
 ## 0.1.1 新增内容
 
-- 浏览器实际验证：文字编辑联动、命名版本、差异显示、恢复、恢复前备份、文本注入不执行、TeX 特殊字符转义、390px 手机与 1440px 桌面布局、无外部资源请求，共 10 项通过。README 图片来自实际运行的演示页面。
+- 三栏浏览器演示 13 项检查通过：三个文件切换、直接编辑 LaTeX、标题及输入文件预览、切换保留修改、完整项目版本、按文件差异、恢复与恢复前备份、HTML 作为文字显示、缺失文件提示、桌面和手机无横向溢出。README 图片来自实际运行页面。
 - 新网页 JavaScript、归档脚本、Codespaces 初始化脚本语法检查通过。
 - Windows 0.1.1 三个启动器及 1.0.1 历史扩展从当前源码构建成功。
-- 本机 Docker Desktop 本次正常启动后引擎未就绪，未把新的样例编译记作本地通过；新增 GitHub Actions 独立验证中英文样例和 Windows 构建，结果以仓库 Actions 中实际执行记录为准。
+- GitHub Actions [首次独立验证](https://github.com/Maverickquliushang/Open-LaTeX/actions/runs/39253621227) 已通过：Ubuntu 编译原创英文（pdfLaTeX）及中文（XeLaTeX）样例、执行论文历史记录并上传 PDF；Windows 构建三个启动器及历史 VSIX 并上传运行包。
+- 本机 Docker Desktop 升级后仍未就绪，当前阻塞为 Secrets Engine 通信文件初始化失败。维护者选择暂不进一步修复，先完成公开发布；因此没有把此次新增样例记作本地 Docker 编译通过。
 - Codespaces 配置已提供，尚未在 GitHub 创建付费/耗额度环境完成全流程实测。完整 Windows 全新机器安装、完整 Dockerfile 在线重建也不宣称已验证。
 - 此版新增公开教程、演示和云端配置；既有论文实例保持原部署版本，不因网页发布修改私人论文或 Git 历史。
 

diff --git a/CHANGELOG.md b/CHANGELOG.md
@@ -4,7 +4,7 @@
 
 - README 参考维护者 PaperTrail 的居中横幅、入口与分路线说明，增加原创横幅和实际演示页面截图。
 - 增加 Windows 从安装依赖到第一篇论文的逐步教程，说明成功标志、容器侧扩展、按需历史、故障排查和 Git/GitHub 区别。
-- 增加独立 Pages 演示：编辑、命名版本、差异、恢复前备份、LaTeX 源码下载；无后端连接，明确不是 TeX 编译器。
+- 增加独立 Pages 三栏演示：文件目录、LaTeX 源码编辑、排版预览、完整项目命名版本、按文件差异、恢复前备份、源码下载；无后端连接，明确不是 TeX 编译器。
 - 增加原创中英文示例、Codespaces 配方及隔离写作目录初始化；新增 GitHub Actions 样例编译与 Windows 构建验证。
 - 保留 0.1.0 历史归档；扩展仍为 1.0.1，编译和历史核心行为未修改。本地源码保持普通文件目录，公开上传通过 GitHub 网页进行。
 

diff --git a/docs/RELEASE_NOTES-0.1.1.md b/docs/RELEASE_NOTES-0.1.1.md
@@ -6,7 +6,7 @@
 
 - Windows 运行包：两个主启动器、历史后台运行器、中文历史 VSIX、编译/历史工具和配置示例。
 - 原创中英文入门文稿，以及从 Docker 安装到编辑器预览、历史回退的逐步教程。
-- 独立 GitHub Pages 交互演示，支持命名版本、差异比较、恢复前备份和示例源码下载。
+- 独立 GitHub Pages 三栏交互演示：文件目录、LaTeX 源码、排版预览，支持完整项目版本、按文件差异、恢复前备份和源码下载。
 - GitHub Codespaces 云端入门工具链和单独的写作目录初始化。
 
 ## 使用前先看
